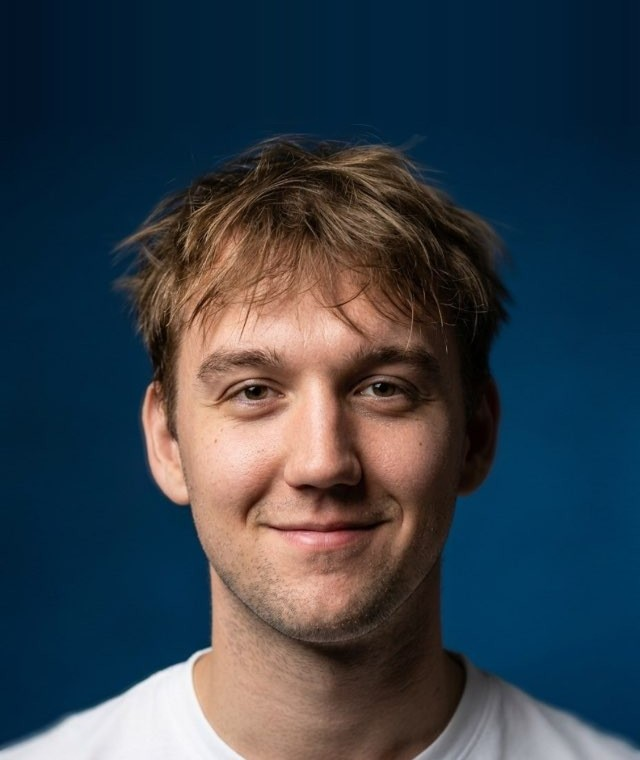
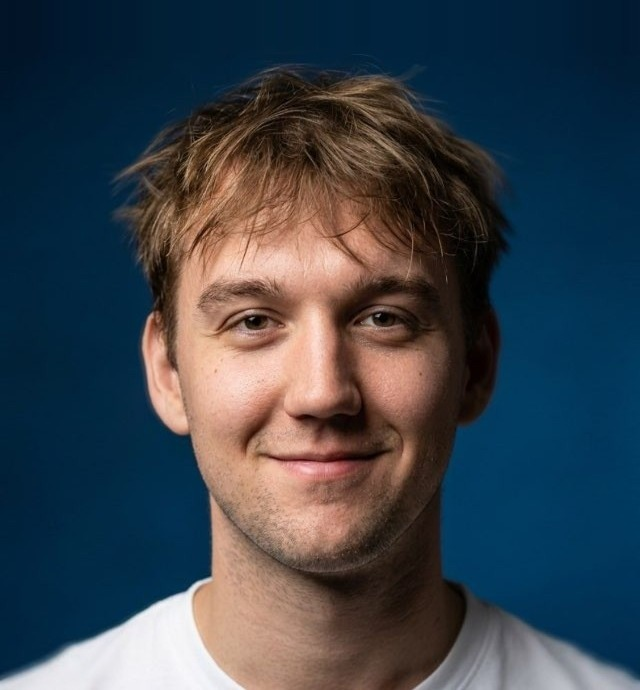
Contact block sized like Framer; raise About photo
Claude-Session: https://claude.ai/code/session_01MMwokruh4yn6zxXSMLvYfy

diff --git a/style.css b/style.css
@@ -121,9 +121,14 @@ h1{font-size:clamp(42px,5vw,72px);margin-bottom:22px}
 .atext p{text-align:justify;hyphens:auto}
 .phoneonly{display:none}
 @media (min-width:641px){
-  .panel{position:relative;min-height:645px;padding-bottom:20px}
-  .cline{margin-top:auto}
-  .panel .btn.dark{position:absolute;right:44px;bottom:65px;width:280px;height:76px;padding:0;margin:0;font-size:24px;border-radius:999px}
+  .last .wrap{padding-inline:35px}
+  .panel{position:relative;min-height:645px;padding:64px 64px 20px;gap:47px}
+  .clabel{font-size:14px;letter-spacing:.14em;line-height:1.5}
+  .chead{font-size:80px;line-height:1;max-width:761px}
+  .cline{margin-top:auto;font-size:19px;line-height:1.5;margin-bottom:-39px}
+  .csub{font-size:16px;line-height:1.5}
+  .panel .btn.dark{position:absolute;right:38px;bottom:57px;width:238px;height:76px;padding:0;margin:0;font-size:28px;border-radius:999px}
+  footer{font-size:13.5px}
 }
 .panel .btn.dark{margin-top:10px}
 footer{display:flex;justify-content:space-between;gap:16px;color:#fff;opacity:.85;font-size:15px;padding:22px 4px 10px}
